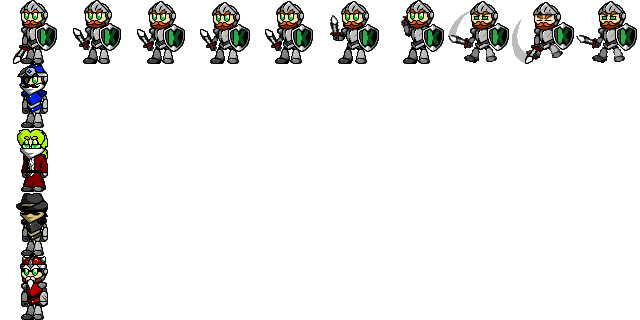
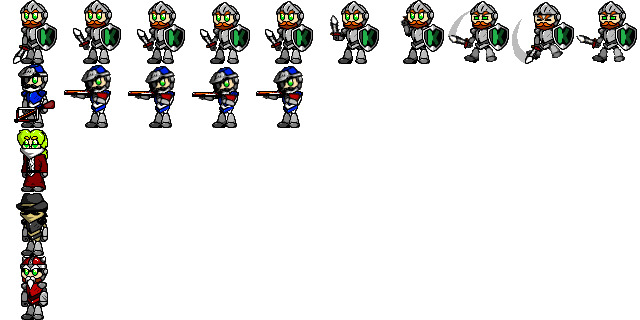
Added Idle animation for the Archer tower I'm mostly checking to make sure I finally have Git back in order again

Changed region(s): [[0.0938, 0.1875, 0.375, 0.4062], [0.4062, 0.1875, 0.5, 0.4062], [0.0, 0.2188, 0.0938, 0.4062]]

diff --git a/src/Block.java b/src/Block.java
@@ -49,6 +49,12 @@ public class Block extends Rectangle {
 			this.animationAttackStart = 5;
 			this.animationAttackEnd = 9;
 		}
+		else if (this.airId == 2){
+			this.animationIdleStart = 1;
+			this.animationIdleEnd = 4;
+			this.animationAttackStart = 1;
+			this.animationAttackEnd = 4;
+		}
 		else{
 			this.animationIdleStart = 0;
 			this.animationIdleEnd = 0;
